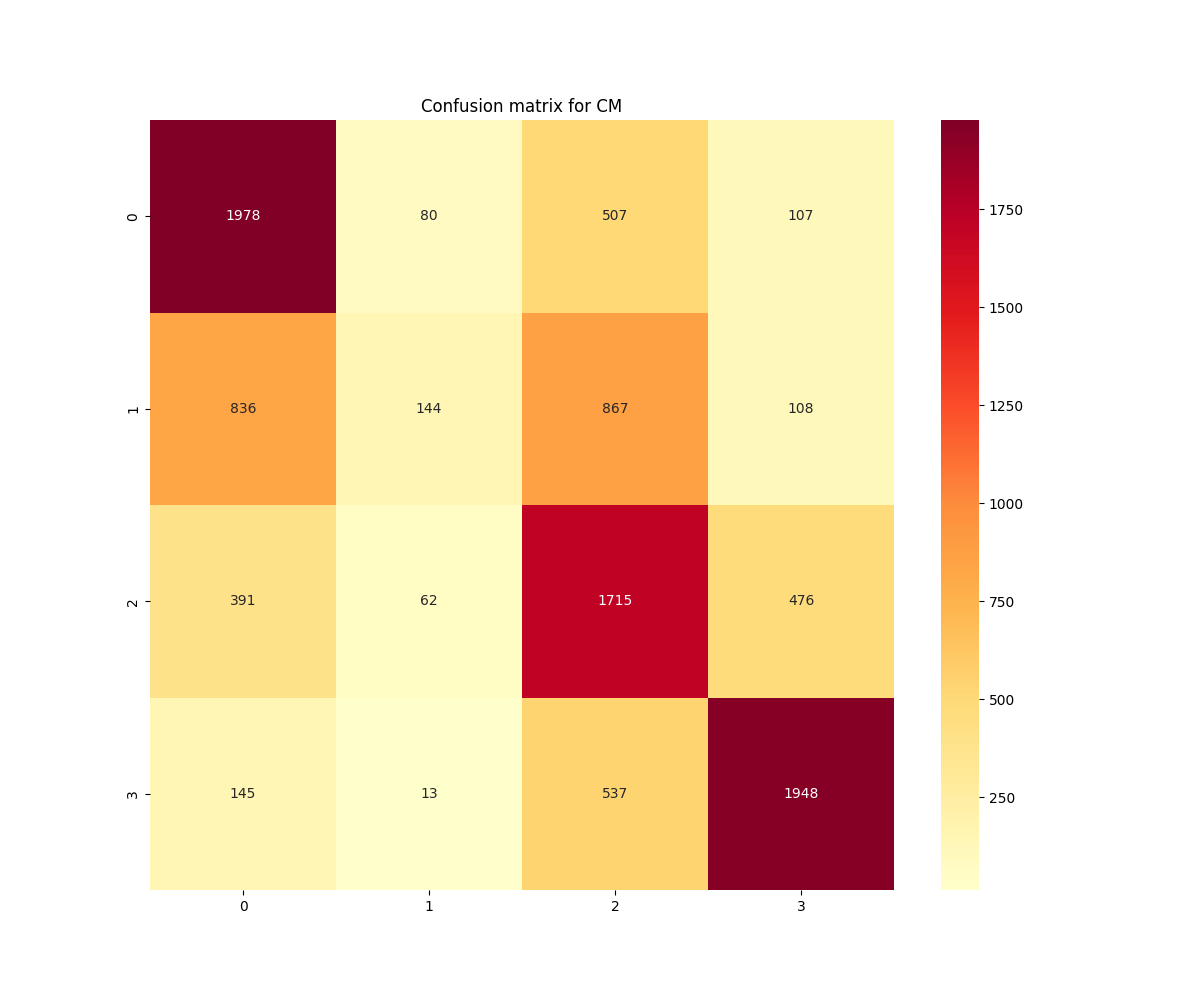
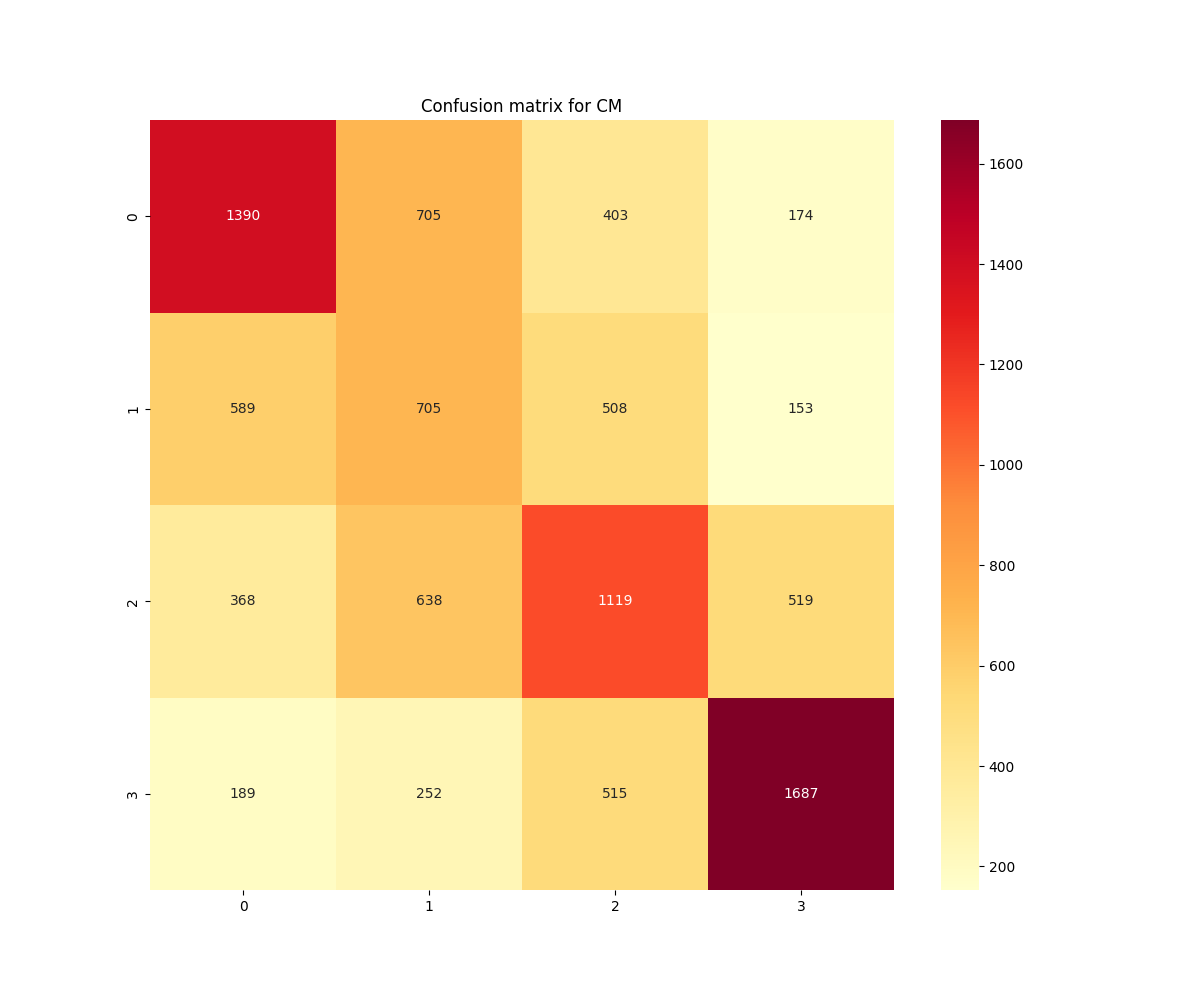
ant part jup

diff --git a/main.py b/main.py
@@ -1,4 +1,5 @@
 import pandas as pd
+from src.classifiers.MLPClassifierW2V import MLP_Word2Vec
 
 from src.classifiers.TFIDF_LogReg import TFIDF_LogReg
 from src.classifiers.ClassifierWord2Vec import ClassifierWord2Vec
@@ -6,6 +7,7 @@ from src.classifiers.Classifier import ClassifierType
 from src.classifiers.ClassifierWord2VecMix import ClassifierWord2VecMix
 from src.classifiers.NaivesBayesClassifier import NaivesBayes
 from src.classifiers.TFIDF_Multinomial import TFIDF_MNB
+from sklearn.neural_network import MLPClassifier
 
 from src.utils.clean_data import CleanData
 
@@ -34,11 +36,10 @@ class PipelineClassifier:
             self.classifier = ClassifierWord2Vec(
                 data=self.data,
                 word2vec_bin=self.vec_bin,
-                max_word=self.max_word,
                 max_iter=self.max_iter,
                 layers=self.layers,
                 vec_dim=self.vec_dim,
-                test_size=self.test_size,
+                test_size=self.test_size
             )
 
         elif self.classifier_type == ClassifierType.NAIVES_BAYES:
@@ -52,11 +53,10 @@ class PipelineClassifier:
             self.classifier = ClassifierWord2VecMix(
                 data=self.data,
                 word2vec_bin=self.vec_bin,
-                max_word=self.max_word,
                 max_iter=self.max_iter,
                 layers=self.layers,
                 vec_dim=self.vec_dim,
-                test_size=self.test_size,
+                test_size=self.test_size
             )
         
         elif self.classifier_type == ClassifierType.TFIDF_LogReg:
@@ -75,7 +75,15 @@ class PipelineClassifier:
                 alpha=self.alpha,
                 max_features=self.max_features
             )
-    
+        elif self.classifier_type == ClassifierType.MLP_Word2Vec:
+            self.classifier = MLP_Word2Vec(
+                data=self.data,
+                test_size=self.test_size,
+                max_iter=self.max_iter,
+                regularization=self.reg,
+                max_features=self.max_features
+            )
+
     def load(self, model_path, features_path=None):
         self.classifier.load(model_path, features_path)
         self.classifier.init_sets()
@@ -90,6 +98,13 @@ class PipelineClassifier:
         self.classifier.init_sets()
         self.classifier.init_classifier()
         self.classifier.fit_transform_data()
+        self.classifier.train()
+
+    def transform_data(self):
+        self.classifier.init_sets()
+        self.classifier.fit_transform_data()
+    
+    def train_without_transform(self):
         self.classifier.train()
     
     def predict(self):
@@ -110,7 +125,7 @@ JSON_FEATURES = 'models/features_naives_4000.json'
 NB_WORD_NB = 4000
 MAX_WORD = 300
 MAX_ITER = 500
-TEST_SIZE = 1/3
+TEST_SIZE = 0.2
 LAYERS = (13, 13, 13)
 VEC_DIM = 200
 REG = 1.0
@@ -121,22 +136,22 @@ MAX_FEATURES = 10000
 VEC_BIN = 'dataset/vectors/frWac_non_lem_no_postag_no_phrase_200_cbow_cut100.bin'
 
 
-CLASSIFIER = ClassifierType.TFIDF_MNB
+CLASSIFIER = ClassifierType.WORD2VEC
 DATA_ANALYSIS = True
 
 DATASET = 'dataset/csv/dataset_0-3.csv'
 
-PLOT_MATRIX_PATH = 'assets/data_analysis/data_original_matrix.plot.png'
-CP_PATH = 'assets/data_analysis/data_original_cp.txt'
-PLOT_ACC_PATH = 'assets/test_acc'
-PLOT_PREC_PATH = 'assets/test_prec'
+PLOT_MATRIX_PATH = 'assets/w2v/mlp/word2vec_LogReg_cm_0-3.plot.png'
+CP_PATH = 'assets/w2v/mlp/word2vec_LogReg_cr_0-3.txt'
 
-TILE_CM = 'CM'
-TITLE_PREC_ACC = 'PE3DZQD'
+PLOT_ACC_PATH = 'assets/features/nb/naives_bayes_4500_cm_0-3.plot.png'
+PLOT_PREC_PATH = 'assets/features/nb/naives_bayes__4500_cm_0-3.plot.png'
 
-MODEL_PATH = ''
+TILE_CM = 'Naives Bayes 4500 words'
+TITLE_PREC_ACC = 'number of words'
+
+MODEL_PATH = 'assets/features/nb/naives_bayes'
 CLASSES = [0,1,2,3]
-
 
 if __name__ == "__main__":
 
@@ -144,7 +159,7 @@ if __name__ == "__main__":
     if DATA_ANALYSIS:
         df = pd.read_csv(DATASET)[['classe_bon_mauvais', 'avis']]
 
-        p = PipelineClassifier(CLASSIFIER, df, test_size=TEST_SIZE, alpha=ALPHA, max_features=MAX_FEATURES)
+        p = PipelineClassifier(CLASSIFIER, data=df, vec_bin=VEC_BIN, max_iter=500, layers=LAYERS, vec_dim=VEC_DIM, test_size=TEST_SIZE)
 
         p.train()
         p.predict()
@@ -152,17 +167,16 @@ if __name__ == "__main__":
         p.classifier.plot_matrix_classification_report(TILE_CM, CP_PATH, PLOT_MATRIX_PATH, CLASSES)
 
     else:
-        
         df = pd.read_csv(DATASET)[['classe_bon_mauvais', 'avis']]
 
-        params = [0.1, 0.6]
+        params = [1500, 3000, 4500, 6000]
 
         accuracies = []
-        precisions = [[], [], [], []]
+        precisions = [[], []]
 
         for i in range(len(params)):
 
-            p = PipelineClassifier(CLASSIFIER, df, test_size=params[i], alpha=ALPHA, max_features=MAX_FEATURES)
+            p = PipelineClassifier(CLASSIFIER, data=df, nb_word_n=params[i], test_size=TEST_SIZE)
             p.train()
             p.predict()
             
@@ -170,7 +184,5 @@ if __name__ == "__main__":
             for c in CLASSES:
                 precisions[c].append(p.classifier.get_precisions(c))
 
-        p.classifier.plot_accuracy_precisions(TITLE_PREC_ACC, PLOT_ACC_PATH, PLOT_PREC_PATH, 'test size', params, CLASSES, accuracies, precisions)
+        p.classifier.plot_accuracy_precisions(TITLE_PREC_ACC, PLOT_ACC_PATH, PLOT_PREC_PATH, TITLE_PREC_ACC, params, CLASSES, accuracies, precisions)
         
-            
-

diff --git a/src/classifiers/ClassifierWord2Vec.py b/src/classifiers/ClassifierWord2Vec.py
@@ -13,10 +13,9 @@ from src.classifiers.Classifier import Classifier
 
 class ClassifierWord2Vec(Classifier):
 
-    def __init__(self, data, word2vec_bin = None, max_word=0, max_iter=0, test_size=0, layers=0, vec_dim=0, create = True) -> None:
+    def __init__(self, data, word2vec_bin = None, max_iter=0, test_size=0, layers=0, vec_dim=0, create = True) -> None:
         super().__init__(data)
-
-        self.max_word = max_word
+        
         self.max_iter = max_iter
         self.test_size = test_size
         self.layers = layers
@@ -41,6 +40,7 @@ class ClassifierWord2Vec(Classifier):
     
     def init_classifier(self):
         print(f"Initialization of the MLP Classifier with {self.layers} layers and {self.max_iter} max iteration.")
+        
         self.classifier = MLPClassifier(hidden_layer_sizes=self.layers, max_iter=self.max_iter)
 
     def _transform_to_vec(self, set_to_transform):

diff --git a/src/classifiers/NaivesBayesClassifier.py b/src/classifiers/NaivesBayesClassifier.py
@@ -21,7 +21,7 @@ class NaivesBayes(Classifier):
         self.train_set = None
         self.test_set = None
 
-        self.nb_word
+        self.nb_word = nb_word
 
         self.refsets = None
         self.testsets = None
@@ -123,7 +123,7 @@ class NaivesBayes(Classifier):
         self.testsets = collections.defaultdict(set)
         
         for i, (feats, label) in enumerate(self.test_set):
-            print(f"{i}/{len(self.test_set)}\n", end='')
+            print(f"{i}/{len(self.test_set)}", end='\r')
             self.refsets[label].add(i)
             observed = self.classifier.classify(feats)
             self.testsets[observed].add(i)

diff --git a/src/classifiers/Classifier.py b/src/classifiers/Classifier.py
@@ -11,6 +11,8 @@ from joblib import dump, load
 from sklearn.metrics import (accuracy_score, classification_report,
                              confusion_matrix)
 
+from tqdm import trange
+
 
 class ClassifierType(Enum):
     WORD2VEC = 1
@@ -18,6 +20,7 @@ class ClassifierType(Enum):
     WORD2VEC_MIX = 3
     TFIDF_MNB = 4
     TFIDF_LogReg = 5
+    MLP_Word2Vec = 6
     
     
 class Classifier:
